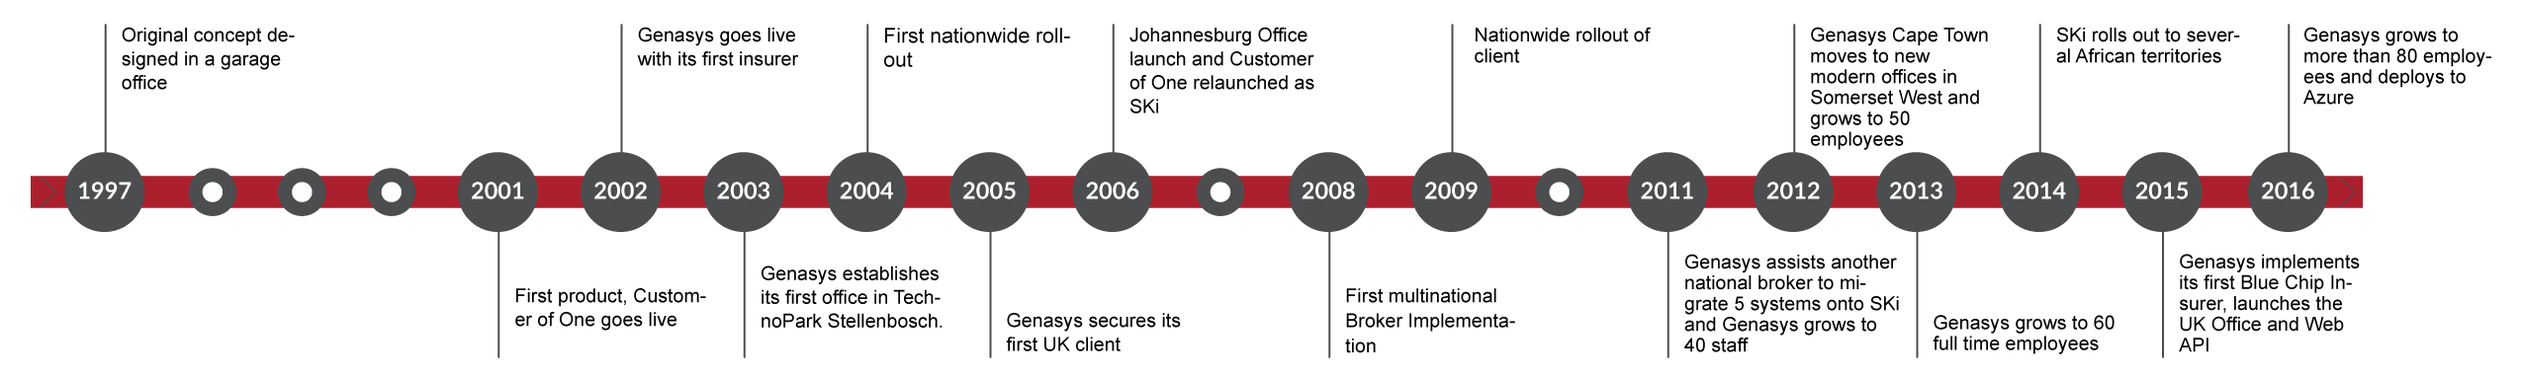
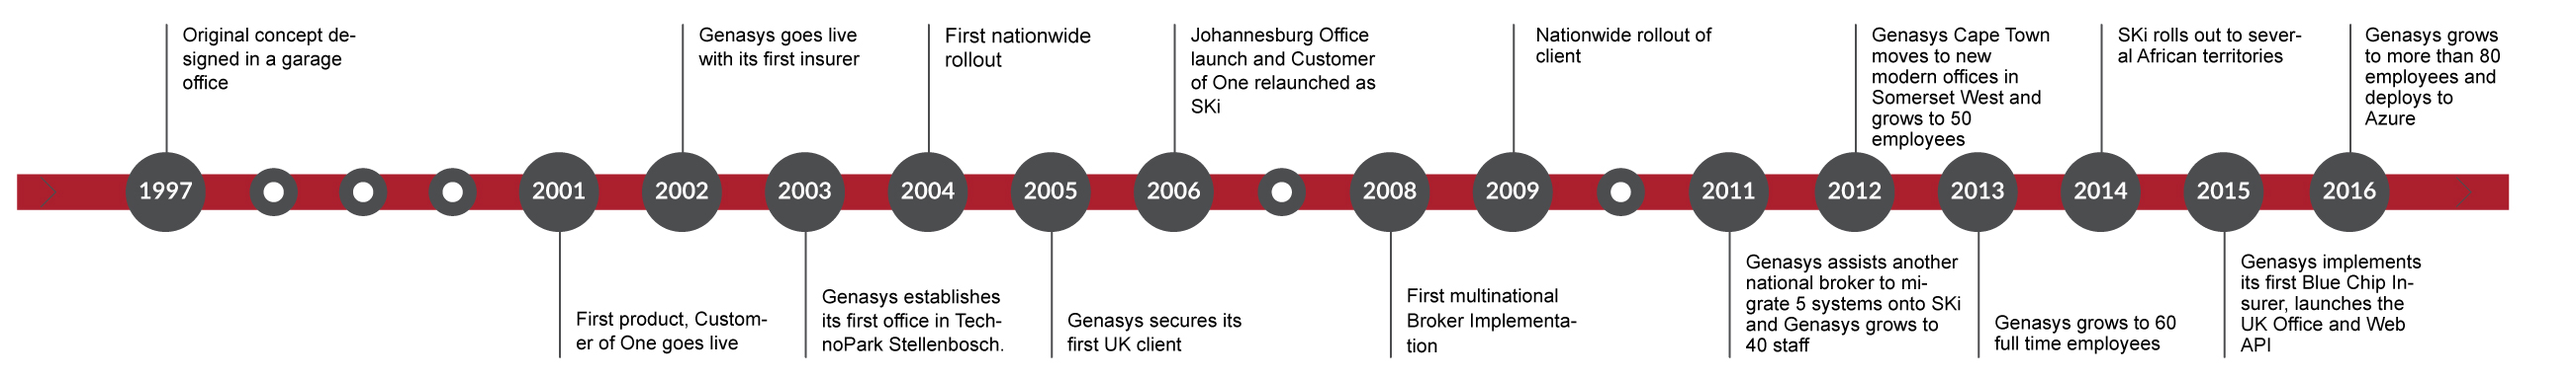
New lineline

diff --git a/index.html b/index.html
@@ -320,7 +320,7 @@
       </div>
 
       <div style="padding: 10px 0px 10px 0px; background-color: #fff;">
-         <div class="container">
+         <div class="container-fluid">
             <img src="elements/general_build/timeline-red.jpg" height="auto" width="100%">
          </div>
       </div>
